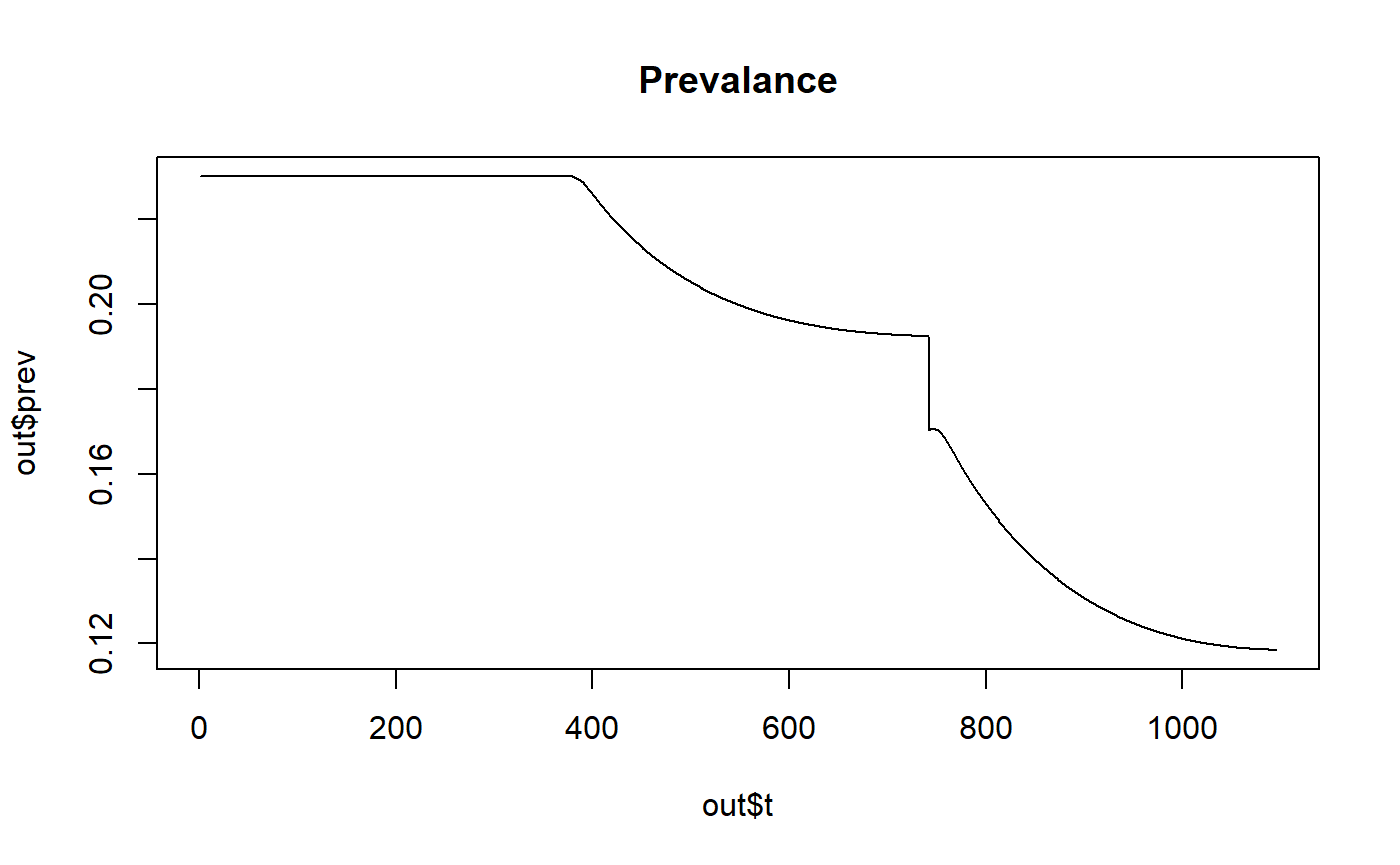
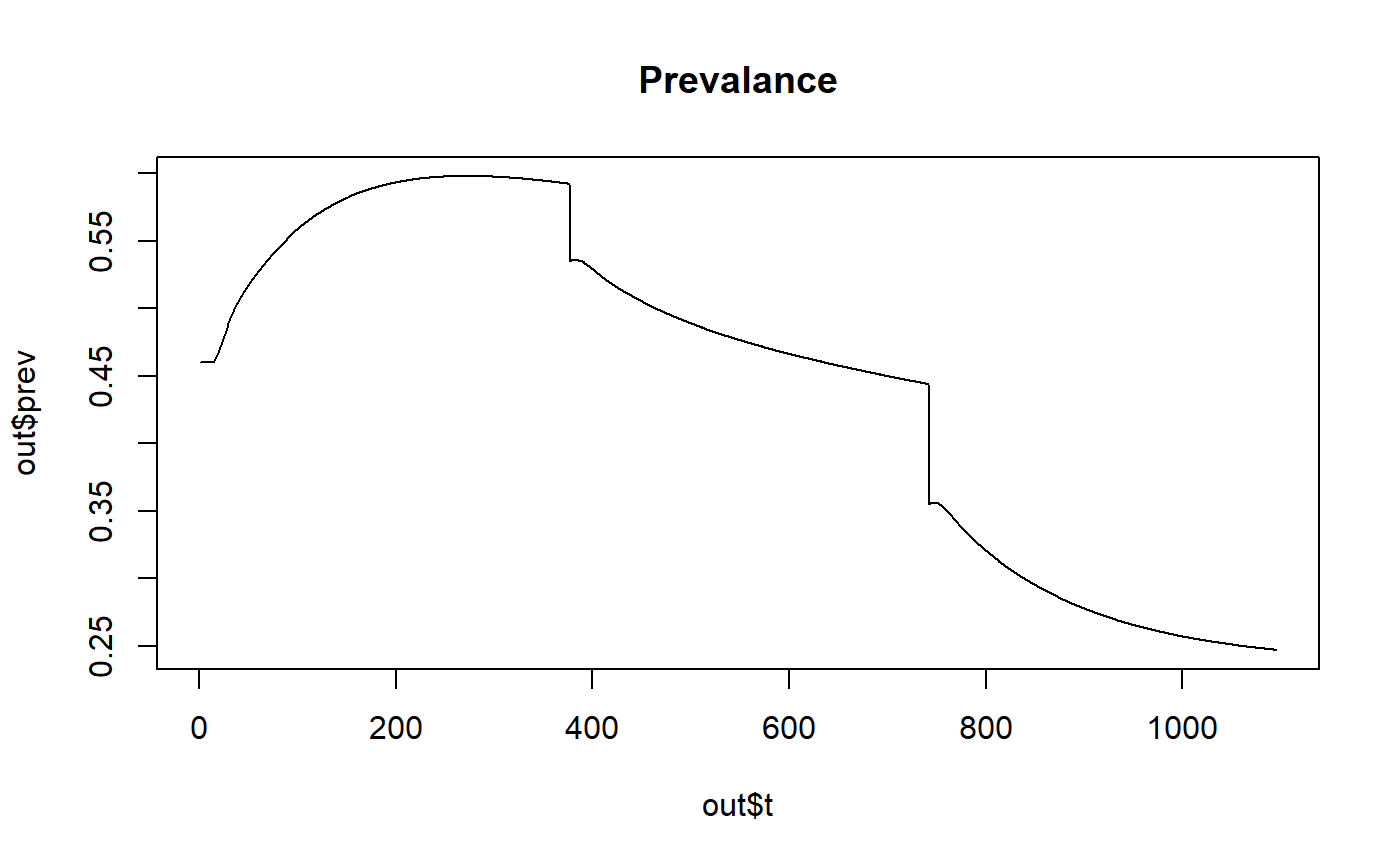
Sorted out number of interventions

diff --git a/docs/articles/intro_to_nets.html b/docs/articles/intro_to_nets.html
@@ -93,7 +93,7 @@
       <h1>Adding ITNs and IRS</h1>
                         <h4 class="author">H. Juliette T. Unwin</h4>
             
-            <h4 class="date">2019-04-15</h4>
+            <h4 class="date">2019-04-24</h4>
       
       
       <div class="hidden name"><code>intro_to_nets.Rmd</code></div>
@@ -147,6 +147,7 @@ coverages is provided, the population is split equally between all the active po
 <span class="co"># creates the odin model</span>
 wh &lt;-<span class="st"> </span>hanojoel<span class="op">:::</span><span class="kw"><a href="../reference/create_r_model.html">create_r_model</a></span>(<span class="dt">odin_model_path =</span> <span class="kw"><a href="https://www.rdocumentation.org/packages/base/topics/system.file">system.file</a></span>(<span class="st">"extdata/odin_model.R"</span>,
                                                               <span class="dt">package =</span> <span class="st">"hanojoel"</span>),
+                                <span class="dt">num_int =</span> <span class="dv">4</span>,
                                 <span class="dt">itn_cov =</span> <span class="fl">0.5</span>, <span class="co"># ITN coverage</span>
                                 <span class="dt">irs_cov =</span> <span class="fl">0.5</span>, <span class="co"># IRS coverage</span>
                                 <span class="dt">ITN_IRS_on =</span> <span class="dv">1</span><span class="op">*</span><span class="dv">365</span>) <span class="co"># Start time for interventions</span>
@@ -162,6 +163,7 @@ out &lt;-<span class="st"> </span>mod<span class="op">$</span><span class="kw">t
 <span class="co"># creates the odin model</span>
 wh &lt;-<span class="st"> </span>hanojoel<span class="op">:::</span><span class="kw"><a href="../reference/create_r_model.html">create_r_model</a></span>(<span class="dt">odin_model_path =</span> <span class="kw"><a href="https://www.rdocumentation.org/packages/base/topics/system.file">system.file</a></span>(<span class="st">"extdata/odin_model.R"</span>,
                                                               <span class="dt">package =</span> <span class="st">"hanojoel"</span>),
+                                <span class="dt">num_int =</span> <span class="dv">4</span>,
                                 <span class="dt">itn_cov =</span> <span class="fl">0.5</span>, <span class="co"># ITN coverage</span>
                                 <span class="dt">irs_cov =</span> <span class="fl">0.5</span>) <span class="co"># IRS coverage) # Start time for interventions</span>
 <span class="co"># generates model functions with initial state data</span>
@@ -184,6 +186,7 @@ t_vector &lt;-<span class="st"> </span><span class="kw"><a href="https://www.rdo
 <span class="co"># creates the odin model</span>
 wh &lt;-<span class="st"> </span>hanojoel<span class="op">:::</span><span class="kw"><a href="../reference/create_r_model.html">create_r_model</a></span>(<span class="dt">odin_model_path =</span> <span class="kw"><a href="https://www.rdocumentation.org/packages/base/topics/system.file">system.file</a></span>(<span class="st">"extdata/odin_model_itn.R"</span>,
                                                               <span class="dt">package =</span> <span class="st">"hanojoel"</span>),
+                                <span class="dt">num_int =</span> <span class="dv">2</span>, 
                                 <span class="dt">itn_vector =</span> itn_vector,
                                 <span class="dt">t_vector =</span> t_vector,
                                 <span class="dt">pop_split =</span> <span class="kw"><a href="https://www.rdocumentation.org/packages/base/topics/c">c</a></span>(<span class="fl">0.5</span>, <span class="fl">0.5</span>))
@@ -202,6 +205,7 @@ t_vector &lt;-<span class="st"> </span><span class="kw"><a href="https://www.rdo
 <span class="co"># creates the odin model</span>
 wh &lt;-<span class="st"> </span>hanojoel<span class="op">:::</span><span class="kw"><a href="../reference/create_r_model.html">create_r_model</a></span>(<span class="dt">odin_model_path =</span> <span class="kw"><a href="https://www.rdocumentation.org/packages/base/topics/system.file">system.file</a></span>(<span class="st">"extdata/odin_model_itn.R"</span>,
                                                               <span class="dt">package =</span> <span class="st">"hanojoel"</span>),
+                                <span class="dt">num_int =</span> <span class="dv">4</span>,
                                 <span class="dt">itn_vector =</span> itn_vector,
                                 <span class="dt">t_vector =</span> t_vector,
                                 <span class="dt">irs_cov =</span> <span class="fl">0.2</span>,

diff --git a/docs/reference/model_param_list_create.html b/docs/reference/model_param_list_create.html
@@ -151,11 +151,11 @@ within <code>equilibrium_init_create</code></p>
   <span class='kw'>Q0</span> <span class='kw'>=</span> <span class='fl'>0.92</span>, <span class='kw'>chi</span> <span class='kw'>=</span> <span class='fl'>0.86</span>, <span class='kw'>bites_Bed</span> <span class='kw'>=</span> <span class='fl'>0.89</span>, <span class='kw'>bites_Indoors</span> <span class='kw'>=</span> <span class='fl'>0.97</span>,
   <span class='kw'>muEL</span> <span class='kw'>=</span> <span class='fl'>0.0338</span>, <span class='kw'>muLL</span> <span class='kw'>=</span> <span class='fl'>0.0348</span>, <span class='kw'>muPL</span> <span class='kw'>=</span> <span class='fl'>0.249</span>, <span class='kw'>dEL</span> <span class='kw'>=</span> <span class='fl'>6.64</span>,
   <span class='kw'>dLL</span> <span class='kw'>=</span> <span class='fl'>3.72</span>, <span class='kw'>dPL</span> <span class='kw'>=</span> <span class='fl'>0.643</span>, <span class='kw'>gammaL</span> <span class='kw'>=</span> <span class='fl'>13.25</span>, <span class='kw'>km</span> <span class='kw'>=</span> <span class='fl'>11</span>, <span class='kw'>cm</span> <span class='kw'>=</span> <span class='fl'>0.05</span>,
-  <span class='kw'>betaL</span> <span class='kw'>=</span> <span class='fl'>21.2</span>, <span class='kw'>itn_cov</span> <span class='kw'>=</span> <span class='fl'>0</span>, <span class='kw'>irs_cov</span> <span class='kw'>=</span> <span class='fl'>0</span>, <span class='kw'>ITN_IRS_on</span> <span class='kw'>=</span> -<span class='fl'>1</span>,
-  <span class='kw'>DY</span> <span class='kw'>=</span> <span class='fl'>365</span>, <span class='kw'>d_ITN0</span> <span class='kw'>=</span> <span class='fl'>0.41</span>, <span class='kw'>r_ITN0</span> <span class='kw'>=</span> <span class='fl'>0.56</span>, <span class='kw'>r_ITN1</span> <span class='kw'>=</span> <span class='fl'>0.24</span>,
-  <span class='kw'>r_IRS0</span> <span class='kw'>=</span> <span class='fl'>0.6</span>, <span class='kw'>d_IRS0</span> <span class='kw'>=</span> <span class='fl'>1</span>, <span class='kw'>irs_half_life</span> <span class='kw'>=</span> <span class='fl'>0.5</span> * <span class='no'>DY</span>,
-  <span class='kw'>itn_half_life</span> <span class='kw'>=</span> <span class='fl'>2.64</span> * <span class='no'>DY</span>, <span class='kw'>IRS_interval</span> <span class='kw'>=</span> <span class='fl'>1</span> * <span class='no'>DY</span>, <span class='kw'>ITN_interval</span> <span class='kw'>=</span> <span class='fl'>3</span>
-  * <span class='no'>DY</span>, <span class='no'>...</span>)</pre>
+  <span class='kw'>betaL</span> <span class='kw'>=</span> <span class='fl'>21.2</span>, <span class='kw'>num_int</span> <span class='kw'>=</span> <span class='fl'>1</span>, <span class='kw'>itn_cov</span> <span class='kw'>=</span> <span class='fl'>0</span>, <span class='kw'>irs_cov</span> <span class='kw'>=</span> <span class='fl'>0</span>,
+  <span class='kw'>ITN_IRS_on</span> <span class='kw'>=</span> -<span class='fl'>1</span>, <span class='kw'>DY</span> <span class='kw'>=</span> <span class='fl'>365</span>, <span class='kw'>d_ITN0</span> <span class='kw'>=</span> <span class='fl'>0.41</span>, <span class='kw'>r_ITN0</span> <span class='kw'>=</span> <span class='fl'>0.56</span>,
+  <span class='kw'>r_ITN1</span> <span class='kw'>=</span> <span class='fl'>0.24</span>, <span class='kw'>r_IRS0</span> <span class='kw'>=</span> <span class='fl'>0.6</span>, <span class='kw'>d_IRS0</span> <span class='kw'>=</span> <span class='fl'>1</span>, <span class='kw'>irs_half_life</span> <span class='kw'>=</span> <span class='fl'>0.5</span> *
+  <span class='no'>DY</span>, <span class='kw'>itn_half_life</span> <span class='kw'>=</span> <span class='fl'>2.64</span> * <span class='no'>DY</span>, <span class='kw'>IRS_interval</span> <span class='kw'>=</span> <span class='fl'>1</span> * <span class='no'>DY</span>,
+  <span class='kw'>ITN_interval</span> <span class='kw'>=</span> <span class='fl'>3</span> * <span class='no'>DY</span>, <span class='no'>...</span>)</pre>
     
     <h2 class="hasAnchor" id="arguments"><a class="anchor" href="#arguments"></a>Arguments</h2>
     <table class="ref-arguments">
@@ -391,6 +391,10 @@ within <code>equilibrium_init_create</code></p>
     <tr>
       <th>betaL</th>
       <td><p>Number of eggs laid per day per mosquito. Default = 21.2</p></td>
+    </tr>
+    <tr>
+      <th>num_int</th>
+      <td><p>Number of intervention parameters.  Default = 4</p></td>
     </tr>
     <tr>
       <th>itn_cov</th>

diff --git a/docs/articles/create_r_model.html b/docs/articles/create_r_model.html
@@ -93,7 +93,7 @@
       <h1>More Flexible Model Run</h1>
                         <h4 class="author">H. Juliette T. Unwin</h4>
             
-            <h4 class="date">2019-04-15</h4>
+            <h4 class="date">2019-04-24</h4>
       
       
       <div class="hidden name"><code>create_r_model.Rmd</code></div>

diff --git a/docs/articles/run_model.html b/docs/articles/run_model.html
@@ -93,7 +93,7 @@
       <h1>Simplest Model Run</h1>
                         <h4 class="author">OJ Watson</h4>
             
-            <h4 class="date">2019-04-15</h4>
+            <h4 class="date">2019-04-24</h4>
       
       
       <div class="hidden name"><code>run_model.Rmd</code></div>
